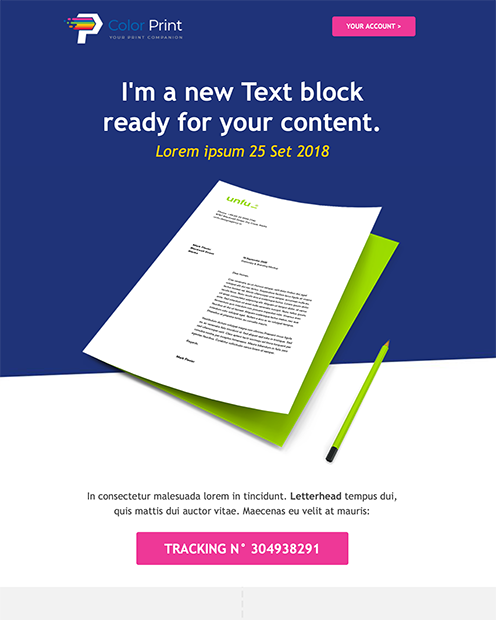
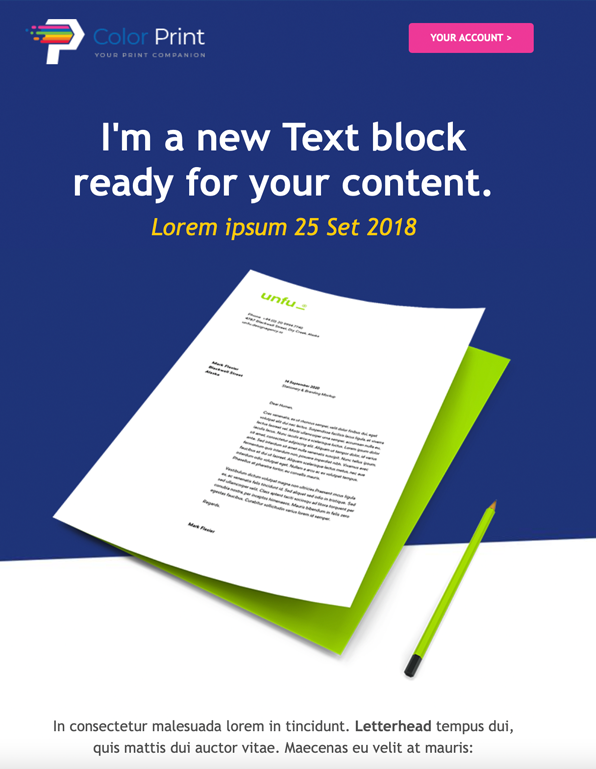
fix

diff --git a/resources/views/admin/templates/_list_list.blade.php b/resources/views/admin/templates/_list_list.blade.php
@@ -17,7 +17,7 @@
                 </td>
                 <td width="1%">
                     <a href="#"  onclick="popupwindow('{{ action('Admin\TemplateController@preview', $template->uid) }}', '{{ $template->name }}', 800, 800)">
-                        <img class="template-thumb rounded shadow" width="100" height="128" src="{{ $template->getThumbUrl() }}?v={{ rand(0,10) }}" />
+                        <img class="template-thumb rounded shadow-sm" width="100" height="128" src="{{ $template->getThumbUrl() }}?v={{ rand(0,10) }}" />
                     </a>
                 </td>
                 <td>

diff --git a/resources/views/templates/_list_list.blade.php b/resources/views/templates/_list_list.blade.php
@@ -17,7 +17,7 @@
                 </td>
                 <td width="1%">
                     <a href="#"  onclick="popupwindow('{{ action('TemplateController@preview', $template->uid) }}', '{{ $template->name }}', 800, 800)">
-                        <img class="template-thumb rounded shadow" width="100" height="128" src="{{ $template->getThumbUrl() }}?v={{ rand(0,10) }}" />
+                        <img class="template-thumb rounded shadow-sm" width="100" height="128" src="{{ $template->getThumbUrl() }}?v={{ rand(0,10) }}" />
                     </a>
                 </td>
                 <td>

diff --git a/resources/views/admin/templates/_list_grid.blade.php b/resources/views/admin/templates/_list_grid.blade.php
@@ -2,7 +2,7 @@
     <div class="row mt-4">
         @foreach ($templates as $key => $template)
             <div class="col-md-3 col-sm-6 mb-4">
-                <div class="card mb-4 box-shadow template-card">
+                <div class="card mb-4 shadow-sm template-card">
                     <span class="template-image-box2">
                         <img class="card-img-top" src="{{ $template->getThumbUrl() }}" style="height: 100%; width: auto; display: block;">
                         <div class="preview_control">

diff --git a/resources/views/templates/_list_grid.blade.php b/resources/views/templates/_list_grid.blade.php
@@ -2,7 +2,7 @@
     <div class="row mt-4">
         @foreach ($templates as $key => $template)
             <div class="col-md-3 col-sm-6 mb-4">
-                <div class="card mb-4 box-shadow template-card">
+                <div class="card mb-4 shadow-sm template-card">
                     <span class="template-image-box2">
                         <img class="card-img-top" src="{{ $template->getThumbUrl() }}" style="height: 100%; width: auto; display: block;">
                         <div class="preview_control">
